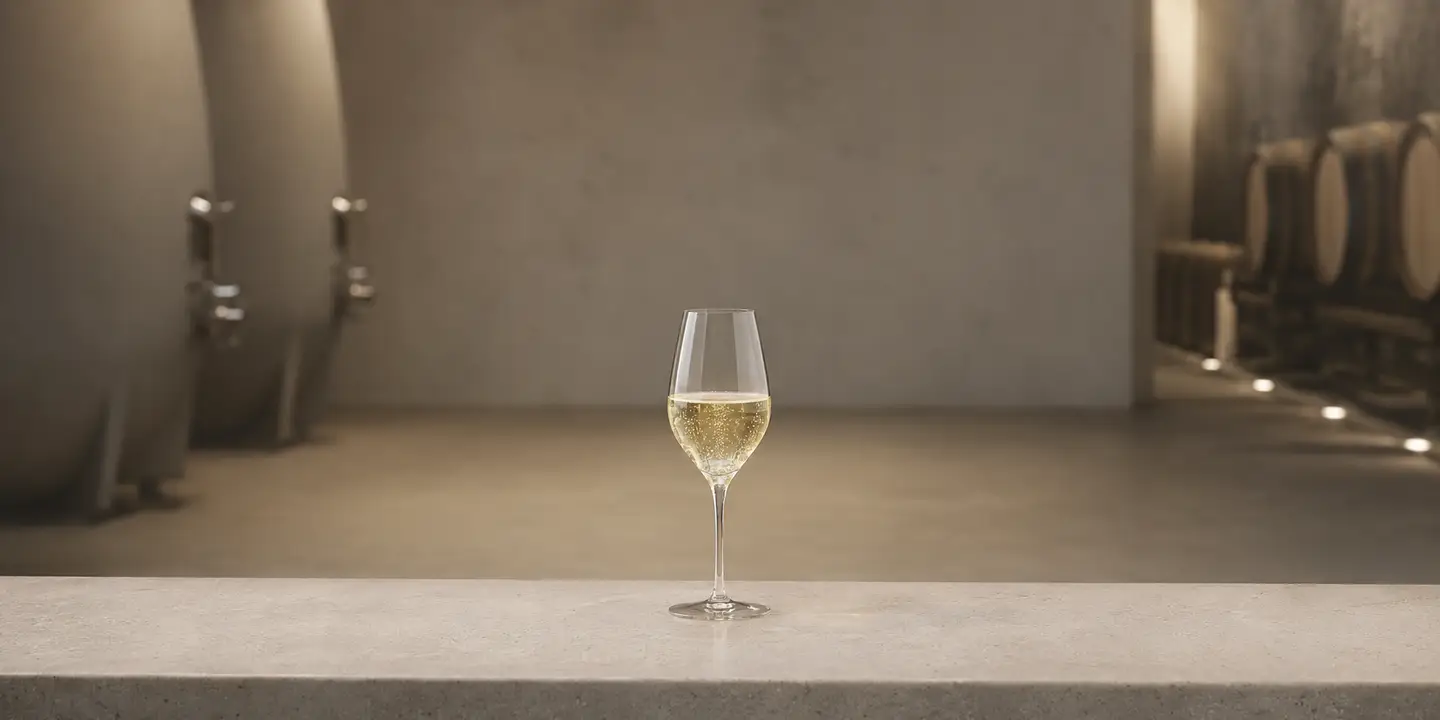
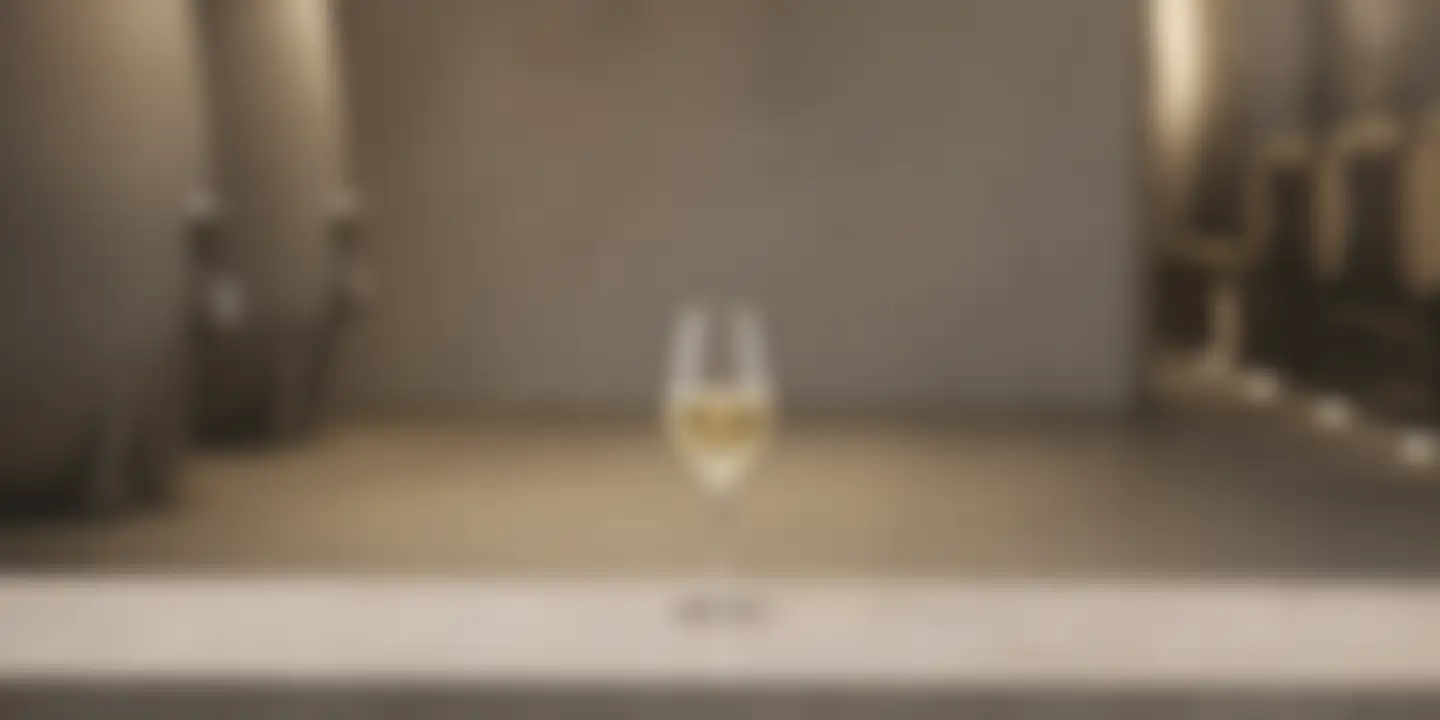
feat(webapp): матовое стекло — фон виден сквозь интерфейс
Направление подобрано в Refero: у Perplexity Computer интерфейс лежит поверх
размытой съёмки, края растворяются в холст, а прозрачное не кладётся на
прозрачное. Скругления и палитра оттуда не взяты — у нас свои.

Стекло ровно одно на экран: шапка, область содержимого и нижняя навигация.
Панели внутри вернулись к рамке без заливки, какими и были: вложенные слои
прозрачности складываются и мутнеют.

Подписи стали на шаг контрастнее, и это не косметика. Текст на фотографии —
главный риск конструкции: даже на размытой мелкие капс-лейблы давали около 2:1
при норме 4.5. Чем плотнее стекло, тем безопаснее текст и тем меньше видно фон.
Расчёт показал, что один шаг контраста у --muted-foreground позволяет ослабить
стекло с 50% до 10%, то есть почти полностью открыть фотографию. Замер по
худшему пикселю каждого из десяти фонов: подписи 5.15:1 и 4.99:1, основной
текст 8.2 и 8.9.

Размытие запечено в файлы вместо backdrop-filter на весь экран: картинка всегда
одинаково мягкая, а фильтр пересчитывался бы при каждой прокрутке. Побочно
фоны стали втрое легче — 78 КБ на все десять.

diff --git a/webapp/src/index.css b/webapp/src/index.css
@@ -111,7 +111,7 @@
     --secondary: #f5f3ea;
     --secondary-foreground: #1b1c15;
     --muted: #f5f3ea;
-    --muted-foreground: #5b5c50;
+    --muted-foreground: #45463c;
     --accent: #f5f3ea;
     --accent-foreground: #1b1c15;
     --destructive: #8e2130;
@@ -170,7 +170,7 @@
     --secondary: #1f2018;
     --secondary-foreground: #f4f3e8;
     --muted: #1f2018;
-    --muted-foreground: #a5a497;
+    --muted-foreground: #c4c3b6;
     --accent: #1f2018;
     --accent-foreground: #f4f3e8;
     --destructive: #e2707a;
@@ -216,13 +216,48 @@
  */
 .app-background {
   background-image: var(--background-image-light);
-  opacity: 0.2;
+  opacity: 0.35;
   animation: app-background-fade 420ms ease-out both;
 }
 
 .dark .app-background {
   background-image: var(--background-image-dark);
-  opacity: 0.32;
+  opacity: 0.45;
+}
+
+/*
+ * Края растворяются в холст, как у референса: без этого фотография обрывается
+ * ровной линией у шапки и нижней навигации, и стык видно.
+ */
+.app-background::after {
+  content: '';
+  position: absolute;
+  inset: 0;
+  background: linear-gradient(
+    to bottom,
+    var(--background) 0%,
+    transparent 18%,
+    transparent 78%,
+    var(--background) 100%
+  );
+}
+
+/*
+ * Стекло: содержимое экрана лежит на полупрозрачной поверхности, сквозь которую
+ * видно размытую фотографию. Текст никогда не ложится на саму картинку — на ней
+ * даже размытой мелкие подписи дают около 2:1 при норме 4.5.
+ *
+ * Прозрачное на прозрачное не кладём: стекло ровно одно на экран, вложенные блоки
+ * внутри остаются на рамках, иначе слои складываются и поверхность мутнеет.
+ */
+.glass {
+  background-color: color-mix(in srgb, var(--card) 40%, transparent);
+  backdrop-filter: blur(10px);
+  -webkit-backdrop-filter: blur(10px);
+}
+
+.dark .glass {
+  background-color: color-mix(in srgb, var(--card) 25%, transparent);
 }
 
 @keyframes app-background-fade {

diff --git a/webapp/src/features/diary/components/EntryForm.tsx b/webapp/src/features/diary/components/EntryForm.tsx
@@ -311,7 +311,7 @@ export function EntryForm({ entryId }: { entryId?: string } = {}) {
       </header>
 
       {step === 0 && (
-        <section className="grid gap-6 border border-border bg-card p-4">
+        <section className="grid gap-6 border border-border p-4">
           <UnderlineInput
             label={t('form.date')}
             type="date"
@@ -473,7 +473,7 @@ export function EntryForm({ entryId }: { entryId?: string } = {}) {
       )}
 
       {step === 1 && (
-        <section className="grid gap-8 border border-border bg-card p-4">
+        <section className="grid gap-8 border border-border p-4">
           <ScaleSlider
             label={t('entry.body')}
             options={bodyOrder}
@@ -511,7 +511,7 @@ export function EntryForm({ entryId }: { entryId?: string } = {}) {
       )}
 
       {step === 2 && (
-        <section className="grid gap-8 border border-border bg-card p-4">
+        <section className="grid gap-8 border border-border p-4">
           <FlavorChips
             label={t('entry.aroma')}
             tone="a"
@@ -574,7 +574,7 @@ export function EntryForm({ entryId }: { entryId?: string } = {}) {
       )}
 
       {step === 3 && (
-        <section className="grid gap-8 border border-border bg-card p-4">
+        <section className="grid gap-8 border border-border p-4">
           <RatingInput
             label={t('form.rating')}
             value={draft.rating}

diff --git a/webapp/src/features/diary/components/StorePicker.tsx b/webapp/src/features/diary/components/StorePicker.tsx
@@ -72,7 +72,7 @@ export function StorePicker({
         <Typography variant="capsLabel" tone="muted">
           {t('store.label')}
         </Typography>
-        <div className="flex items-center justify-between gap-3 border border-border bg-card p-3">
+        <div className="flex items-center justify-between gap-3 border border-border p-3">
           <Typography variant="fieldValue">{describe(picked)}</Typography>
           <TextLinkAction type="button" arrow="" onClick={clear}>
             {t('store.change')}
@@ -117,7 +117,7 @@ export function StorePicker({
 
       {/* Подсказка о дубле показывается только когда человек собрался создавать новый. */}
       {isAskingAboutDuplicate && (
-        <div className="grid gap-3 border border-border bg-card p-3">
+        <div className="grid gap-3 border border-border p-3">
           <Typography variant="bodySm">
             {t('store.maybeMeant', { name: suggestion.name })}
           </Typography>
@@ -133,7 +133,7 @@ export function StorePicker({
       )}
 
       {isCreating && !isAskingAboutDuplicate && (
-        <div className="grid gap-4 border border-border bg-card p-3">
+        <div className="grid gap-4 border border-border p-3">
           <UnderlineInput
             label={t('store.city')}
             value={city}

diff --git a/webapp/src/features/diary/components/EntryScreen.tsx b/webapp/src/features/diary/components/EntryScreen.tsx
@@ -77,7 +77,7 @@ export function EntryScreen({ entryId }: { entryId: string }) {
         </Typography>
       </header>
 
-      <section className="grid gap-4 border border-border bg-card p-4">
+      <section className="grid gap-4 border border-border p-4">
         <Facts
           emptyLabel={t('entry.emptyFacts')}
           rows={[
@@ -111,7 +111,7 @@ export function EntryScreen({ entryId }: { entryId: string }) {
         />
       </section>
 
-      <section className="grid gap-4 border border-border bg-card p-4">
+      <section className="grid gap-4 border border-border p-4">
         <Facts
           emptyLabel={t('entry.emptyFacts')}
           rows={[
@@ -168,7 +168,7 @@ export function EntryScreen({ entryId }: { entryId: string }) {
         </OutlinedButton>
 
         {isConfirmingDelete ? (
-          <div className="grid gap-3 border border-border bg-card p-4">
+          <div className="grid gap-3 border border-border p-4">
             <Typography variant="bodySm">
               {t('entry.deleteConfirm')}
             </Typography>

diff --git a/webapp/src/features/diary/components/WeekScreen.tsx b/webapp/src/features/diary/components/WeekScreen.tsx
@@ -73,7 +73,7 @@ export function WeekScreen() {
       )}
 
       {data.entries.length === 0 ? (
-        <div className="grid gap-4 border border-border bg-card p-6">
+        <div className="grid gap-4 border border-border p-6">
           <Typography variant="wineNameLg">{t('week.empty')}</Typography>
           <Typography tone="muted">{t('week.emptyHint')}</Typography>
           <OutlinedButton type="button" onClick={() => void navigate({ to: '/add' })}>
@@ -150,7 +150,7 @@ function MetricsBlock({
   locale: Locale
 }) {
   return (
-    <section className="grid gap-6 border border-border bg-card p-4">
+    <section className="grid gap-6 border border-border p-4">
       <div className="grid grid-cols-3 gap-4">
         <Metric label={t('week.totalEntries')} value={String(metrics.totalEntries)} />
         <Metric label={t('week.totalGlasses')} value={String(metrics.totalGlasses)} />

diff --git a/webapp/src/features/diary/components/TrashScreen.tsx b/webapp/src/features/diary/components/TrashScreen.tsx
@@ -65,7 +65,7 @@ export function TrashScreen() {
         <>
           <div className="grid gap-4">
             {items.map((entry) => (
-              <div key={entry.id} className="grid gap-2 border border-border bg-card">
+              <div key={entry.id} className="grid gap-2 border border-border">
                 <EntryRow entry={entry} />
                 <div className="flex items-center justify-between px-4 pb-3">
                   <Typography variant="caption" tone="muted">
@@ -89,7 +89,7 @@ export function TrashScreen() {
           </div>
 
           {isConfirmingEmpty ? (
-            <div className="grid gap-3 border border-border bg-card p-4">
+            <div className="grid gap-3 border border-border p-4">
               <Typography variant="bodySm">
                 {t('trash.emptyAllConfirm', { count: items.length })}
               </Typography>

diff --git a/webapp/src/root-layout.tsx b/webapp/src/root-layout.tsx
@@ -26,7 +26,7 @@ export function RootLayout() {
     <WineBackgroundProvider>
     <div className="relative flex min-h-svh flex-col bg-background text-foreground">
       <AppBackground />
-      <header className="relative z-10 border-b border-border bg-card">
+      <header className="glass relative z-10 border-b border-border">
         <div className="mx-auto flex w-full max-w-2xl items-center gap-3 px-4 py-4">
           <Typography asChild variant="capsNav">
             <Link to="/">{t('app.name')}</Link>
@@ -52,7 +52,7 @@ export function RootLayout() {
         <EmailVerificationNotice />
       </div>
 
-      <main className="relative z-10 mx-auto w-full max-w-2xl flex-1">
+      <main className="glass relative z-10 mx-auto w-full max-w-2xl flex-1">
         <Outlet />
       </main>
 

diff --git a/webapp/src/features/diary/components/WeekCalendar.tsx b/webapp/src/features/diary/components/WeekCalendar.tsx
@@ -19,7 +19,7 @@ export function WeekCalendar({
   const Element = onSelectDay ? 'button' : 'div'
 
   return (
-    <div className={cn('grid grid-cols-7 border border-border bg-card', className)}>
+    <div className={cn('grid grid-cols-7 border border-border', className)}>
       {days.map((day) => (
         // Обработчика выбора дня никто не передаёт, поэтому все семь ячеек — это семь
         // заблокированных кнопок: клавиатура на них останавливается, скринридер объявляет

diff --git a/webapp/src/features/diary/components/StatsScreen.tsx b/webapp/src/features/diary/components/StatsScreen.tsx
@@ -67,7 +67,7 @@ export function StatsScreen() {
 
       {stats.data && stats.data.totalEntries > 0 && (
         <>
-          <section className="grid grid-cols-3 gap-4 border border-border bg-card p-4">
+          <section className="grid grid-cols-3 gap-4 border border-border p-4">
             <Metric label={t('week.totalEntries')} value={String(stats.data.totalEntries)} />
             <Metric label={t('week.totalGlasses')} value={formatNumber(stats.data.totalGlasses)} />
             <Metric label={t('week.totalMl')} value={String(stats.data.totalMl)} />

diff --git a/webapp/src/features/diary/components/WineScreen.tsx b/webapp/src/features/diary/components/WineScreen.tsx
@@ -60,7 +60,7 @@ export function WineScreen({ wineId }: { wineId: string }) {
         </Typography>
       </header>
 
-      <section className="grid grid-cols-2 gap-4 border border-border bg-card p-4">
+      <section className="grid grid-cols-2 gap-4 border border-border p-4">
         <div className="grid gap-1">
           <Typography variant="capsLabel" tone="muted">
             {t('wine.averageRating')}

diff --git a/webapp/src/features/admin/components/AdminStoresScreen.tsx b/webapp/src/features/admin/components/AdminStoresScreen.tsx
@@ -149,7 +149,7 @@ export function AdminStoresScreen() {
             )}
 
             {mergingId === store.id && (
-              <div className="grid gap-3 border border-border bg-card p-3">
+              <div className="grid gap-3 border border-border p-3">
                 <Typography variant="caption" tone="muted">
                   {t('admin.mergeHint')}
                 </Typography>

diff --git a/webapp/src/features/diary/components/BottomNav.tsx b/webapp/src/features/diary/components/BottomNav.tsx
@@ -24,7 +24,7 @@ export function BottomNav({ className }: { className?: string }) {
     <nav
       aria-label={t('nav.primary')}
       className={cn(
-        'sticky bottom-0 z-10 grid grid-cols-4 border-t border-border bg-card',
+        'glass sticky bottom-0 z-10 grid grid-cols-4 border-t border-border',
         className,
       )}
     >
